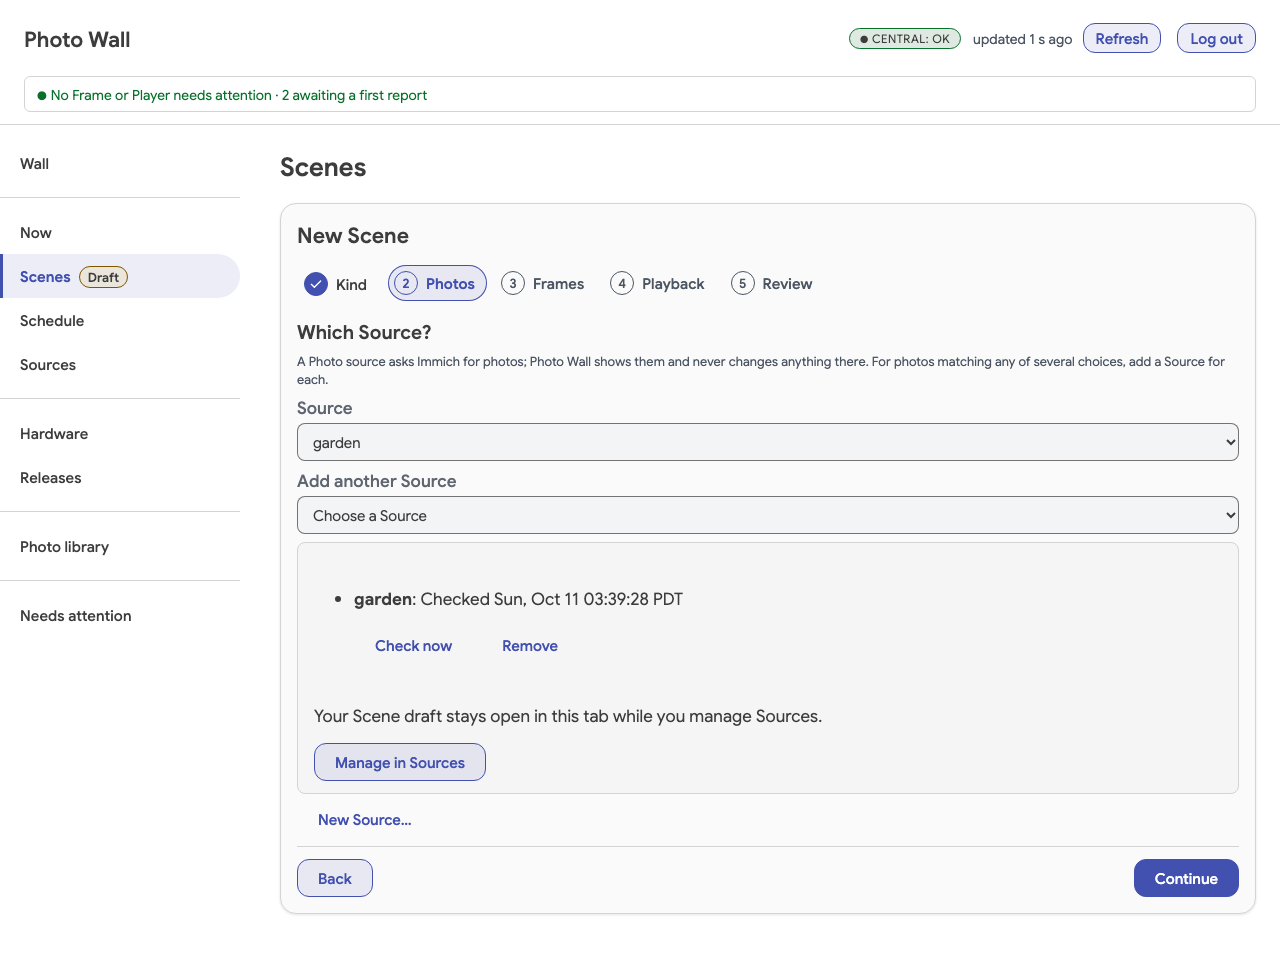
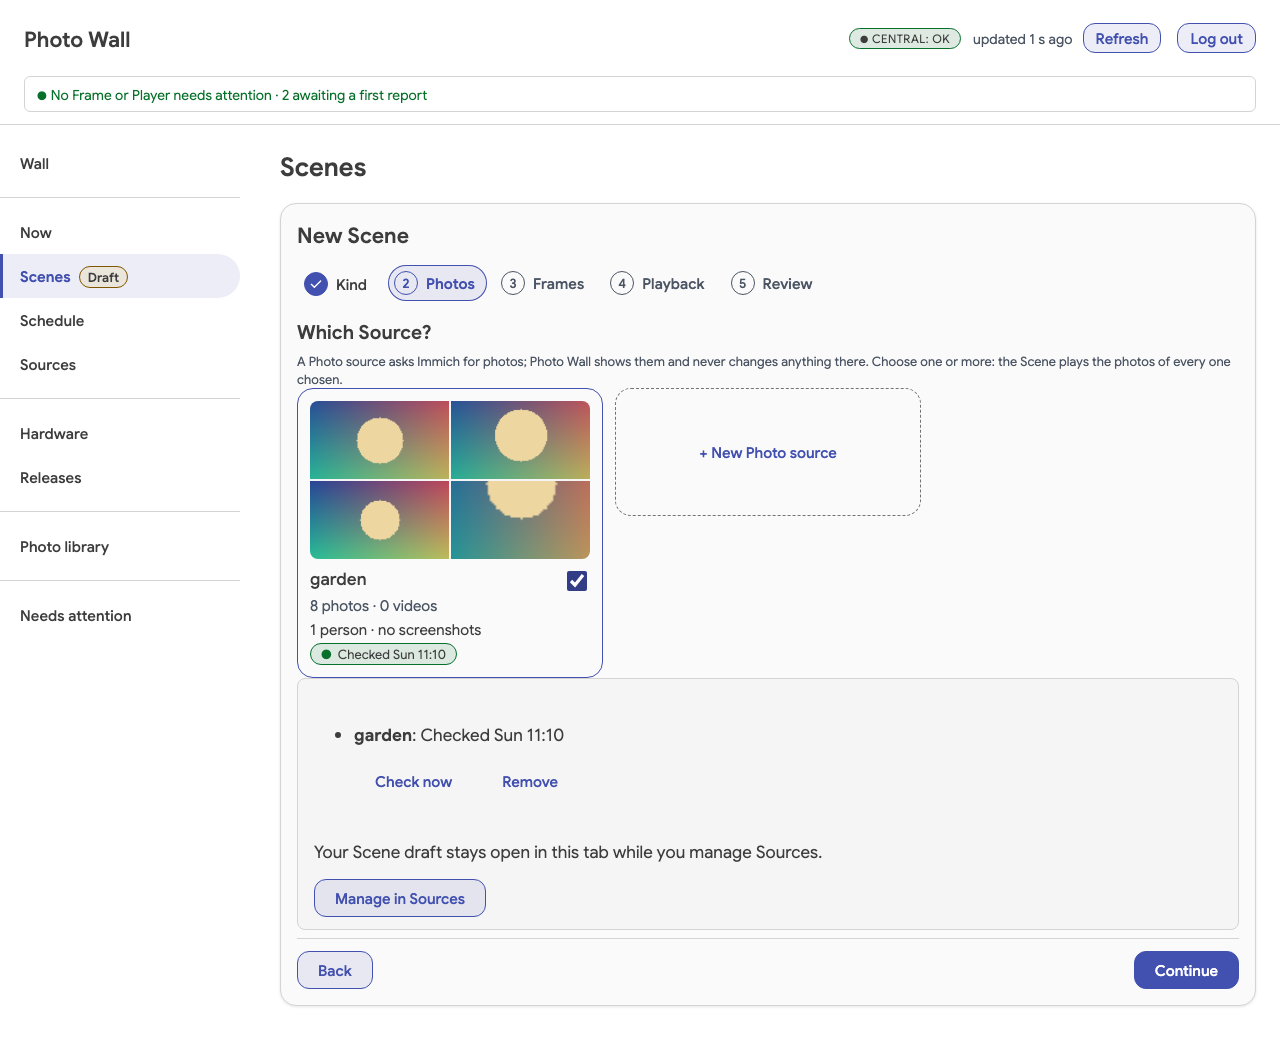
test(console): a varied photo library and the follow-up screenshots for PR 81 (follow-ups D2)
- photo_seed.py: VARIED (3:2, 4:3, 16:9, 9:16, 1:1, a 4:1 panorama, an 8 MP 4:3 photo, a 4:3
  photo whose face sits at its left edge), seed_varied_library(store, connection_ref,
  pool_key=None) through the store's worker side (no Immich), thumbnail_png (a gradient with a
  disc where the subject sits, at the photo's true ratio), route_thumbnails, and
  seed_varied_frames (9:16 "hall", 16:9 "living-room" beside the tests' own Frames).
- capture_photo4_evidence.py: every after page D1 changed, dark and light, at 1,280 px and at
  390 px (the editor's phone count line, and its preview opened in the sheet); the editor is
  shot as the view shows it, since its preview and Save bar are sticky. Befores unchanged.
- ui/sheet.tsx: the sheet sits above the sticky Save bar (z-30), which the phone capture showed
  drawn over it.

Screenshots (docs/evidence/photo4/): sources-after, new-source-after, scene-photos-after,
show-now-after, photo-library-after, attention-after (each .dark/.light, and -phone), and
new-source-preview-after-phone.

Checks: capture -k after 12 passed (PHOTO_WALL_BROWSER_TESTS=1, chromium); ruff 0.

diff --git a/central/console/src/ui/sheet.tsx b/central/console/src/ui/sheet.tsx
@@ -14,17 +14,17 @@ export interface SheetProps {
 
 /**
  * Sheet (design language §4): a panel over the page, from the bottom on a phone and from the
- * side above `md` (Base UI Dialog: focus is trapped and Escape closes it). Its title names it;
- * Close is always its last button.
+ * side above `md` (Base UI Dialog: focus is trapped and Escape closes it). Its title names it,
+ * with Close beside it; it sits above the page's sticky bars and toasts.
  */
 export function Sheet({ open, onOpenChange, title, children }: SheetProps) {
   return (
     <BaseDialog.Root open={open} onOpenChange={(next) => onOpenChange(next)}>
       <BaseDialog.Portal>
-        <BaseDialog.Backdrop className="fixed inset-0 bg-surface/70" />
+        <BaseDialog.Backdrop className="fixed inset-0 z-30 bg-surface/70" />
         <BaseDialog.Popup
           className={cn(
-            "fixed inset-x-0 bottom-0 flex max-h-5/6 flex-col gap-3 overflow-y-auto",
+            "fixed inset-x-0 bottom-0 z-30 flex max-h-5/6 flex-col gap-3 overflow-y-auto",
             "rounded-t-card border border-line bg-surface-raised p-4 font-sans text-text shadow-lg shadow-shadow",
             "md:inset-y-0 md:right-0 md:left-auto md:max-h-none md:w-120 md:rounded-none md:p-6",
             "focus-visible:outline-2 focus-visible:outline-focus",

diff --git a/tests/browser/capture_photo4_evidence.py b/tests/browser/capture_photo4_evidence.py
@@ -14,9 +14,15 @@ Photos step, Show now, Needs attention, and Settings › Photo library (new here
 Seeding reuses the browser tests' own helpers (main: test_operator_showrunner_browser.py and
 test_source_flow_browser.py's stubbed library; this branch: photo_seed.py's store-side seeding),
 so every state reached here is one those tests prove.
+
+The after pages (follow-ups D2) run over the varied library (photo_seed.VARIED: 3:2, 4:3, 16:9,
+9:16, 1:1, a 4:1 panorama, an 8 MP photo, a face at the edge; each thumbnail drawn at its true
+ratio with its subject where it sits) and two more Frames (9:16 "hall", 16:9 "living-room"), at
+1,280 px and at 390 px ("-phone"), dark and light; befores are not re-taken.
 """
 
 import os
+import re
 import struct
 import zlib
 from pathlib import Path
@@ -53,10 +59,13 @@ def _tiles(page):
     page.route(THUMBNAILS, lambda route: route.fulfill(status=200, content_type="image/png", body=PNG))
 
 
-def _shot(page, name: str, scheme: str) -> None:
+def _shot(page, name: str, scheme: str, *, full_page=True) -> None:
+    """One PNG. An editor is shot as the view shows it (`full_page=False`): its preview column
+    and Save bar are sticky, and a full-page shot would draw them where the view's bottom was."""
     OUT.mkdir(parents=True, exist_ok=True)
     page.wait_for_timeout(400)
-    page.screenshot(path=str(OUT / f"{name}.{scheme}.png"), full_page=True, animations="disabled", caret="hide")
+    page.screenshot(path=str(OUT / f"{name}.{scheme}.png"), full_page=full_page, animations="disabled",
+                    caret="hide")
 
 
 def _open(page, scheme):
@@ -141,21 +150,33 @@ def test_before_new_source(page, registry, scheme):
         _shot(page, "new-source-before", scheme)
 
 
-# --- after (this branch) ----------------------------------------------------------------------
+# --- after (this branch; follow-ups D2: the varied library, desktop and phone) -------------------
+
+# Each after page at 1,280 px ("<page>-after.<scheme>.png") and at 390 px ("-after-phone").
+WIDTHS = {"": 1280, "-phone": 390}
 
 
-def _library(registry):
-    """One connection Family (Anna's key) with its people and albums listed, and a saved Source
-    "garden" (Anna) whose pool holds 8 photos."""
+def _sized(page, scheme, width):
+    page.set_viewport_size({"width": width, "height": 900 if width > 600 else 844})
+    page.emulate_media(color_scheme=scheme)
+
+
+def _library(registry, page):
+    """One connection Family (Anna's key) with its people and albums listed; a saved Source
+    "garden" (Anna) whose pool is the varied library (photo_seed.VARIED: 3:2, 4:3, 16:9, 9:16,
+    1:1, a 4:1 panorama, an 8 MP photo, a face at the edge), each thumbnail drawn at its ratio;
+    and the two Frames of both shapes beside the test's own."""
     from photo_seed import (
         album,
         connected,
-        filled,
-        in_pool,
         library_of,
         listed,
         person,
+        route_thumbnails,
         saved_source,
+        seed_varied_frames,
+        seed_varied_library,
+        varied_assets,
     )
 
     from central.photo_library.model import SourceQuery
@@ -167,12 +188,15 @@ def _library(registry):
     garden = saved_source(registry, library, "garden", SourceQuery(connection_ref=ref, people=(anna.person_ref,)))
     with registry.db.transaction() as conn:
         key = conn.execute("SELECT pool_key FROM media_sources WHERE source_ref=%s", (garden,)).fetchone()["pool_key"]
-    filled(library, key, in_pool(ref, range(1, 9)))
+    seed_varied_library(library, ref, pool_key=key)
+    seed_varied_frames(registry)
+    route_thumbnails(page, varied_assets(ref))
     return library, ref, garden
 
 
+@pytest.mark.parametrize("suffix", sorted(WIDTHS))
 @pytest.mark.parametrize("scheme", SCHEMES)
-def test_after_pages(page, registry, scheme):
+def test_after_pages(page, registry, scheme, suffix):
     """The Sources cards, Scene Photos and Show now over the saved Photo source "garden"."""
     from console_tasks import choose_source, connect, start_scene, start_show_now
     from operator_harness import operator_server
@@ -181,38 +205,40 @@ def test_after_pages(page, registry, scheme):
     from central.runtime import Contribution, Scene
 
     _seed(registry)
-    _library_store, _ref, garden = _library(registry)
+    _library(registry, page)
+    garden = "garden:1"
     _runtime(registry).command("set_scene", Scene(scene_id=SCENE_ID, loop=True, contributions=(
         Contribution(target=f"frame:{VALID_FRAME}", source_refs=(garden,)),)))
-    _open(page, scheme)
-    _tiles(page)
+    _sized(page, scheme, WIDTHS[suffix])
     with operator_server(registry.db, registry.clock) as origin:
         connect(page, origin, "sources")
-        expect(_region(page, "Sources").get_by_role("article", name="garden", exact=True)).to_be_visible()
-        _shot(page, "sources-after", scheme)
+        card = _region(page, "Sources").get_by_role("article", name="garden", exact=True)
+        expect(card.get_by_role("img")).to_have_count(4)
+        _shot(page, f"sources-after{suffix}", scheme)
 
         form = start_scene(page)
         choose_source(form, garden)
         expect(form.get_by_role("region", name="Source media status")).to_contain_text("garden")
-        _shot(page, "scene-photos-after", scheme)
+        _shot(page, f"scene-photos-after{suffix}", scheme)
 
         form = start_show_now(page, SCENE_ID)
-        expect(form.get_by_role("region", name="Saved Sources", exact=True)).to_contain_text("garden")
-        _shot(page, "show-now-after", scheme)
+        expect(form.get_by_label("Photos from", exact=True)).to_contain_text("garden")
+        _shot(page, f"show-now-after{suffix}", scheme)
 
 
+@pytest.mark.parametrize("suffix", sorted(WIDTHS))
 @pytest.mark.parametrize("scheme", SCHEMES)
-def test_after_new_source(page, registry, scheme):
-    """New Source: Anna chosen in People, the unsaved Source's pool filled with 8 photos."""
+def test_after_new_source(page, registry, scheme, suffix):
+    """New Photo source: Anna chosen in People, the unsaved Source's pool the varied library; on
+    a phone, the count line, then the preview opened in its sheet."""
     from console_tasks import connect, start_source
     from operator_harness import operator_server
-    from photo_seed import draft_pool_key, filled, in_pool
+    from photo_seed import draft_pool_key, seed_varied_library
     from test_operator_showrunner_browser import _seed
 
     _seed(registry)
-    library, ref, _garden = _library(registry)
-    _open(page, scheme)
-    _tiles(page)
+    library, ref, _garden = _library(registry, page)
+    _sized(page, scheme, WIDTHS[suffix])
     with operator_server(registry.db, registry.clock) as origin:
         connect(page, origin, "sources")
         editor = start_source(page)
@@ -222,14 +248,24 @@ def test_after_new_source(page, registry, scheme):
             editor.get_by_role("option", name="Anna").click()
         expect(editor.get_by_role("list", name="Chosen people")).to_contain_text("Anna")
         editor.get_by_label("Name", exact=True).fill("family")  # moves focus, closing the list
-        filled(library, draft_pool_key(registry), in_pool(ref, range(11, 19)))
-        pool = _region(page, "Photos in this Source")
-        expect(pool.get_by_role("list", name="Photos in the pool").get_by_role("listitem")).to_have_count(8)
-        _shot(page, "new-source-after", scheme)
+        seed_varied_library(library, ref, pool_key=draft_pool_key(registry))
+        if suffix:
+            line = editor.get_by_role("button", name=re.compile(r"^\d+ photos · "))
+            expect(line).to_be_visible()
+            _shot(page, f"new-source-after{suffix}", scheme, full_page=False)
+            line.click()
+            sheet = page.get_by_role("dialog", name="Photos in this Source")
+            expect(sheet.get_by_role("list", name="Photos in the pool").get_by_role("img")).to_have_count(8)
+            _shot(page, f"new-source-preview-after{suffix}", scheme, full_page=False)
+        else:
+            pool = _region(page, "Photos in this Source")
+            expect(pool.get_by_role("list", name="Photos in the pool").get_by_role("img")).to_have_count(8)
+            _shot(page, f"new-source-after{suffix}", scheme, full_page=False)
 
 
+@pytest.mark.parametrize("suffix", sorted(WIDTHS))
 @pytest.mark.parametrize("scheme", SCHEMES)
-def test_after_photo_library_and_attention(page, registry, scheme):
+def test_after_photo_library_and_attention(page, registry, scheme, suffix):
     """Settings › Photo library with one connection connected and one whose key Immich rejects,
     then Needs attention listing that one."""
     from console_tasks import connect, go
@@ -243,19 +279,18 @@ def test_after_photo_library_and_attention(page, registry, scheme):
     from central.photo_library.views import ConnectionWrite
 
     _seed(registry)
-    library, _ref, _garden = _library(registry)
+    _library(registry, page)
     store = PgPhotoLibrary(registry.db, times=DatabaseTransactionClock(), queue=NoQueue())
     archive = store.add_connection(ConnectionWrite(name="Archive", url="http://archive.invalid:2283",
                                                    key=KEY.replace("1234", "9876")))
     assert store.record_contact(store.begin_contact(archive), ContactRefused(problem=KeyRejected()))
-    _open(page, scheme)
+    _sized(page, scheme, WIDTHS[suffix])
     with operator_server(registry.db, registry.clock) as origin:
         connect(page, origin, "photo-library")
         expect(_region(page, "Family").get_by_text("Connected")).to_be_visible()
         expect(_region(page, "Archive").get_by_text("Immich rejected the API key.")).to_be_visible()
-        _shot(page, "photo-library-after", scheme)
+        _shot(page, f"photo-library-after{suffix}", scheme)
 
         go(page, "attention")
         expect(_region(page, "Photo library").get_by_text("Immich rejected the API key.")).to_be_visible()
-        _shot(page, "attention-after", scheme)
-
+        _shot(page, f"attention-after{suffix}", scheme)

diff --git a/tests/browser/photo_seed.py b/tests/browser/photo_seed.py
@@ -140,6 +140,24 @@ def seed_varied_library(store: PgPhotoLibrary, connection_ref: str, *, pool_key:
     return tuple(a.asset_id for a in assets)
 
 
+TALL_FRAME, WIDE_FRAME = "hall", "living-room"
+
+
+def seed_varied_frames(registry) -> tuple[str, str]:
+    """Two Frames beside the test's own, so a screenshot shows both shapes: "hall", 9:16 on a 32"
+    display, and "living-room", 16:9 on a 55" one (placed, not bound)."""
+    from central.registry import FrameCreate
+    from contracts.models import FrameProfile
+
+    registry.create_frame(FrameCreate(id=TALL_FRAME, surface_id="hall", x_mm=100, y_mm=100, width_mm=400,
+                                      height_mm=710, profile=FrameProfile(width_px=1080, height_px=1920,
+                                                                          diagonal_inches=32)))
+    registry.create_frame(FrameCreate(id=WIDE_FRAME, surface_id="living", x_mm=100, y_mm=100, width_mm=1210,
+                                      height_mm=680, profile=FrameProfile(width_px=3840, height_px=2160,
+                                                                          diagonal_inches=55)))
+    return TALL_FRAME, WIDE_FRAME
+
+
 def thumbnail_png(width: int, height: int, subject=(0.5, 0.5), long_edge=120) -> bytes:
     """A thumbnail at a photo's true ratio: a gradient with a bright disc where its subject sits,
     so a ratio, a crop and an off-centre subject all read on a screenshot."""
